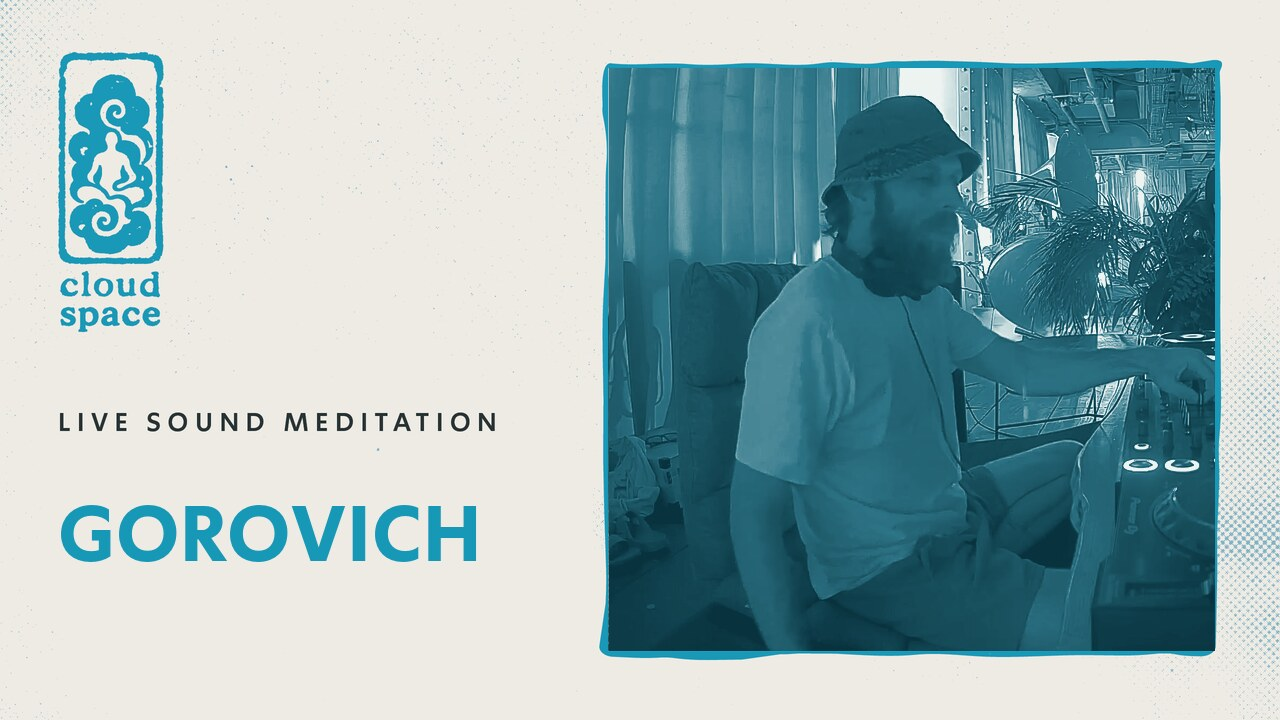
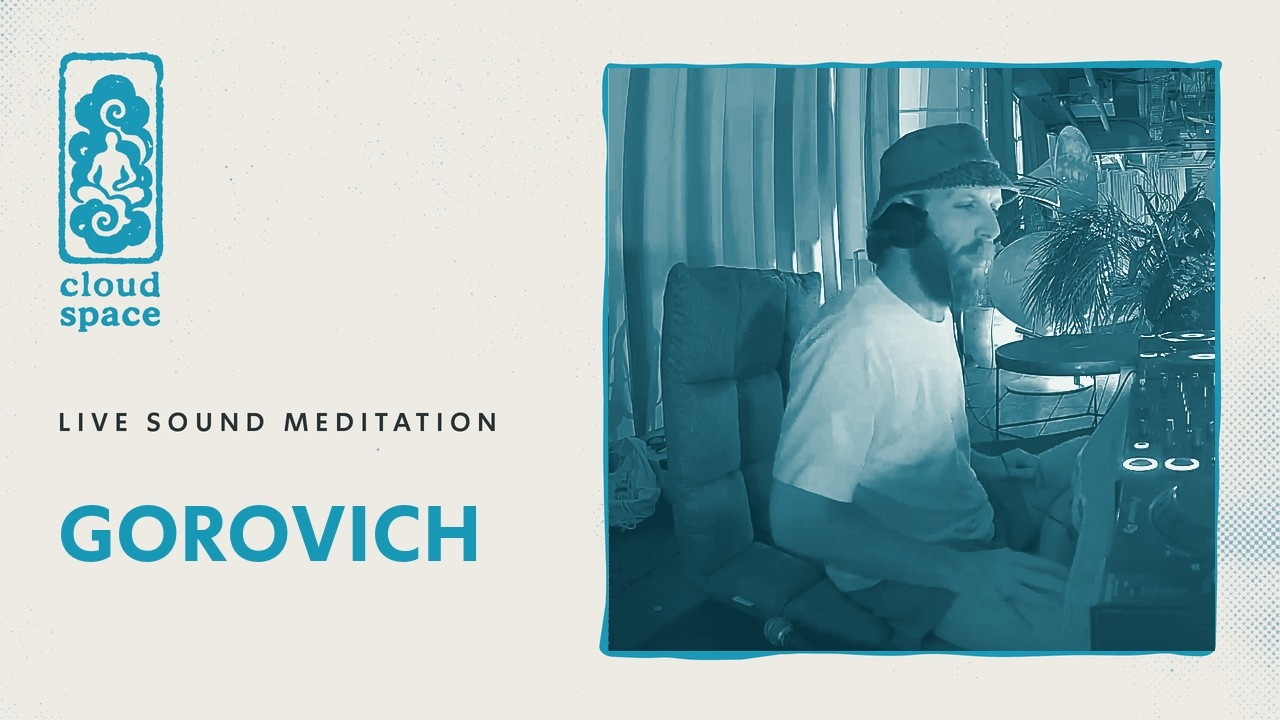
Gorovich archive: swap to night session (h7T7qg-CrgQ, 64 min) + new cover

Changed region(s): [[0.4688, 0.0917, 0.9688, 0.9167], [0.8438, 0.7944, 0.9062, 0.825], [0.4688, 0.7028, 0.5, 0.7333]]

diff --git a/cloud-sessions.html b/cloud-sessions.html
@@ -156,10 +156,10 @@ h1{font-family:var(--font-display);font-weight:500;font-size:2rem;margin-bottom:
 </div>
 </article>
 <article class="card" data-tags="אלקטרוני">
-<div class="media yt-facade" data-ytid="qCHU_GJNxDg" role="button" tabindex="0" aria-label="נגן: גורוביץ">
+<div class="media yt-facade" data-ytid="h7T7qg-CrgQ" role="button" tabindex="0" aria-label="נגן: גורוביץ">
 <img src="assets/cloud/archive-gorovich.jpg" alt="גורוביץ - מדיטציית סאונד מוקלטת, קלאוד ספייס תל אביב" width="1280" height="720" loading="lazy" decoding="async">
 <span class="play"><svg width="50" height="35" viewBox="0 0 68 48"><path d="M66.5 7.7c-.8-2.9-2.5-5.4-5.4-6.2C55.8.1 34 0 34 0S12.2.1 6.9 1.5C4 2.3 2.3 4.8 1.5 7.7.1 13 0 24 0 24s.1 11 1.5 16.3c.8 2.9 2.5 5.4 5.4 6.2C12.2 47.9 34 48 34 48s21.8-.1 27.1-1.5c2.9-.8 4.6-3.3 5.4-6.2C67.9 35 68 24 68 24s-.1-11-1.5-16.3z" fill="#1898B7"/><path d="M27 14l18 10-18 10z" fill="#fff"/></svg></span>
-<span class="dur" dir="ltr">62 דק'</span>
+<span class="dur" dir="ltr">64 דק'</span>
 </div>
 <div class="body">
 <h2 class="name">גורוביץ</h2>

diff --git a/cloud.html b/cloud.html
@@ -917,7 +917,7 @@
                     </div>
                 </article>
                 <article class="arc-card">
-                    <div class="arc-card__media yt-facade" data-ytid="qCHU_GJNxDg" role="button" tabindex="0" aria-label="נגן: גורוביץ - הסשן המלא">
+                    <div class="arc-card__media yt-facade" data-ytid="h7T7qg-CrgQ" role="button" tabindex="0" aria-label="נגן: גורוביץ - הסשן המלא">
                         <img src="assets/cloud/archive-gorovich.jpg" alt="גורוביץ - סשן מוקלט בקלאוד ספייס תל אביב" width="1280" height="720" loading="lazy" decoding="async">
                         <span class="arc-play" aria-hidden="true"><svg width="52" height="37" viewBox="0 0 68 48"><path d="M66.5 7.7c-.8-2.9-2.5-5.4-5.4-6.2C55.8.1 34 0 34 0S12.2.1 6.9 1.5C4 2.3 2.3 4.8 1.5 7.7.1 13 0 24 0 24s.1 11 1.5 16.3c.8 2.9 2.5 5.4 5.4 6.2C12.2 47.9 34 48 34 48s21.8-.1 27.1-1.5c2.9-.8 4.6-3.3 5.4-6.2C67.9 35 68 24 68 24s-.1-11-1.5-16.3z" fill="#1898B7"/><path d="M27 14l18 10-18 10z" fill="#fff"/></svg></span>
                     </div>

diff --git a/cloud-en.html b/cloud-en.html
@@ -955,7 +955,7 @@
                     </div>
                 </article>
                 <article class="arc-card">
-                    <div class="arc-card__media yt-facade" data-ytid="qCHU_GJNxDg" role="button" tabindex="0" aria-label="Play: Gorovich - the full session">
+                    <div class="arc-card__media yt-facade" data-ytid="h7T7qg-CrgQ" role="button" tabindex="0" aria-label="Play: Gorovich - the full session">
                         <img src="assets/cloud/archive-gorovich.jpg" alt="Gorovich - recorded session at CLOUD SPACE Tel Aviv" width="1280" height="720" loading="lazy" decoding="async">
                         <span class="arc-play" aria-hidden="true"><svg width="52" height="37" viewBox="0 0 68 48"><path d="M66.5 7.7c-.8-2.9-2.5-5.4-5.4-6.2C55.8.1 34 0 34 0S12.2.1 6.9 1.5C4 2.3 2.3 4.8 1.5 7.7.1 13 0 24 0 24s.1 11 1.5 16.3c.8 2.9 2.5 5.4 5.4 6.2C12.2 47.9 34 48 34 48s21.8-.1 27.1-1.5c2.9-.8 4.6-3.3 5.4-6.2C67.9 35 68 24 68 24s-.1-11-1.5-16.3z" fill="#1898B7"/><path d="M27 14l18 10-18 10z" fill="#fff"/></svg></span>
                     </div>
